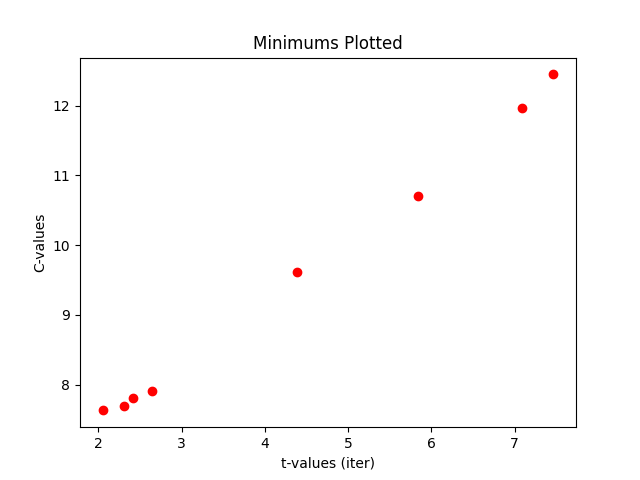
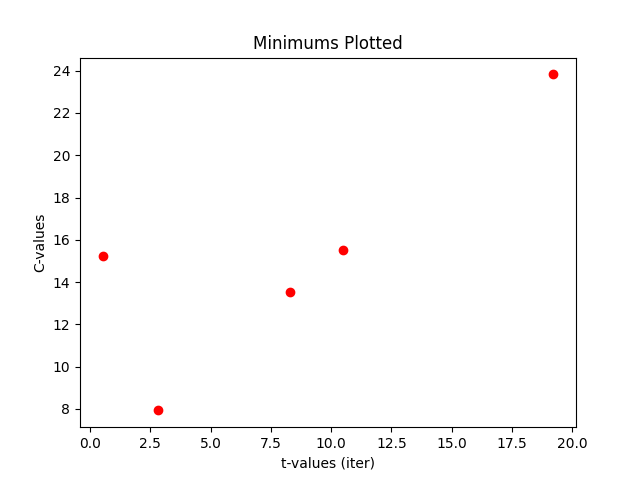
Updates for optimize function

diff --git a/optutils/aldfast.py b/optutils/aldfast.py
@@ -47,17 +47,18 @@ class CostF:
         return self.a*(t+self.tp)/gp + self.b*ep
 
 
-if __name__ == '__main__':
-
-    ald = ALDdose()
-    cf = CostF(ald) # normalize CostF by picking the five points, running the cf and getting, create lambda func to scale the function outputs
-    abs_min_t, abs_min_C, local_mins = optimize(cf)
+def useoptimize(cf, path):
     
-    path = "/home/yyardi/projects/ald0/optutils/images"
+    abs_min_t, abs_min_C, local_mins = optimize(cf)
+    # steps is length of local_mins
+    # samples used is length of local_mins * samples/step (5)
+    
+
 
     # Plotting cost function and abs min
     t_values = np.linspace(1, 10, 100)
     C_values = [cf(t) for t in t_values]
+    
     plt.plot(t_values, C_values, label="Cost Function")
     plt.axvline(abs_min_t, color='r', linestyle='--', label=f"Optimal t={abs_min_t.item():.2f}")
     plt.xlabel("Time (t)")
@@ -76,5 +77,50 @@ if __name__ == '__main__':
 
     print(f"Optimal t: {abs_min_t}, Minimum Cost: {abs_min_C}")
 
+
+def repeated_optimization(cf, num_runs=20):
+    iterations_per_run = []  # To track the number of iterations in each run
+    min_t_values = []  # To track the optimal t values from each run
+
+    for _ in range(num_runs):
+        abs_min_t, abs_min_C, local_mins = optimize(cf)
+        
+        # Collect the number of iterations (length of local_mins) for each run
+        iterations_per_run.append(len(local_mins))
+        
+        # Collect the absolute minimum t-value for each run
+        min_t_values.append(abs_min_t)
+
+    # Compute the mean and standard deviation of iterations and min_t_values
+    mean_iterations = np.mean(iterations_per_run)
+    std_iterations = np.std(iterations_per_run)
+    mean_min_t = np.mean(min_t_values)
+    std_min_t = np.std(min_t_values)
+
+    return mean_iterations, std_iterations, mean_min_t, std_min_t
+
+# Define the cost function (CostF) and ALDdose (make sure they are defined correctly in your code)
+ald = ALDdose()
+cf = CostF(ald)
+
+
+
+
+if __name__ == '__main__':
+    ald = ALDdose()
+    cf = CostF(ald) # normalize CostF by picking the five points, running the cf and getting, create lambda func to scale the function outputs
+    path = "/home/yyardi/projects/ald0/optutils/images"
+    # useoptimize(cf, path)
+    
+    
+    mean_iterations, std_iterations, mean_min_t, std_min_t = repeated_optimization(cf)
+
+    print(f"Mean number of iterations: {mean_iterations:.2f}")
+    print(f"Standard deviation of iterations: {std_iterations:.2f}")
+    print(f"Mean of optimal t-values: {mean_min_t:.2f}")
+    print(f"Standard deviation of optimal t-values: {std_min_t:.2f}")
+
+
+    
 
 

diff --git a/optutils/optimize.py b/optutils/optimize.py
@@ -11,7 +11,7 @@ def get_samples(start, end, step):
     """Generate an array of t values from start to end with a given step size."""
     return np.arange(start, end, step)
 
-def expected_improvement(X, X_sample, Y_sample, gpr, xi=0.01):
+def expected_improvement(X, X_sample, Y_sample, gpr, xi=0.1):
     """
     Calculate the Expected Improvement (EI) acquisition function.
     
@@ -71,7 +71,7 @@ def propose_location(X_sample, Y_sample, gpr, bounds, n_restarts=25):
 
     return np.clip(X_next, bounds[0], bounds[1])
 
-def optimize(cf, t_range=(1, 10), n_samples=5, max_iter=15, tolerance=1e-4):
+def optimize(cf, t_range=(0.1, 20), n_samples=6, max_iter=2, tolerance=1e-5):
     """
     Manual Bayesian Optimization for minimizing a cost function.
 
@@ -87,12 +87,15 @@ def optimize(cf, t_range=(1, 10), n_samples=5, max_iter=15, tolerance=1e-4):
     - C_min: Minimum cost function value at t_min.
     - local_mins: List of tuples (t, C) of all local minima observed.
     """
-    X_sample = np.random.uniform(t_range[0], t_range[1], size=(n_samples, 1))
+    # X_sample = np.random.uniform(t_range[0], t_range[1], size=(n_samples, 1))
+    # X_sample = np.logspace(np.log10(t_range[0]), np.log10(t_range[1]), n_samples).reshape(-1, 1)
+    # Y_sample = np.array([cf(t) for t in X_sample])
+    X_sample = np.array([0.1,0.5,1,3,8,20]).reshape(-1, 1)
     Y_sample = np.array([cf(t) for t in X_sample])
-    x_additional = np.array([0.9, 11])
-    y_additional = np.array([cf(t) for t in x_additional])
-    X_sample = np.vstack((X_sample, x_additional.reshape(-1, 1))) # needs to be a 2D vector
-    Y_sample = np.append(Y_sample, y_additional)
+    # x_additional = np.array([0.1, 20])
+    # y_additional = np.array([cf(t) for t in x_additional])
+    # X_sample = np.vstack((X_sample, x_additional.reshape(-1, 1))) # needs to be a 2D vector
+    # Y_sample = np.append(Y_sample, y_additional)
 
 
     kernel = Matern(nu=2.5)
@@ -129,7 +132,7 @@ def plot_optimization_progress(cf, X_sample, Y_sample, t_range, gpr, iteration):
     """
     Plot the optimization progress with uncertainty (confidence intervals).
     """
-    t_values = np.linspace(t_range[0], t_range[1], 100).reshape(-1, 1)
+    t_values = np.linspace(1, 10, 100).reshape(-1, 1)
     C_values = np.array([cf(t) for t in t_values])
 
     # Predict the mean and standard deviation from the Gaussian Process
